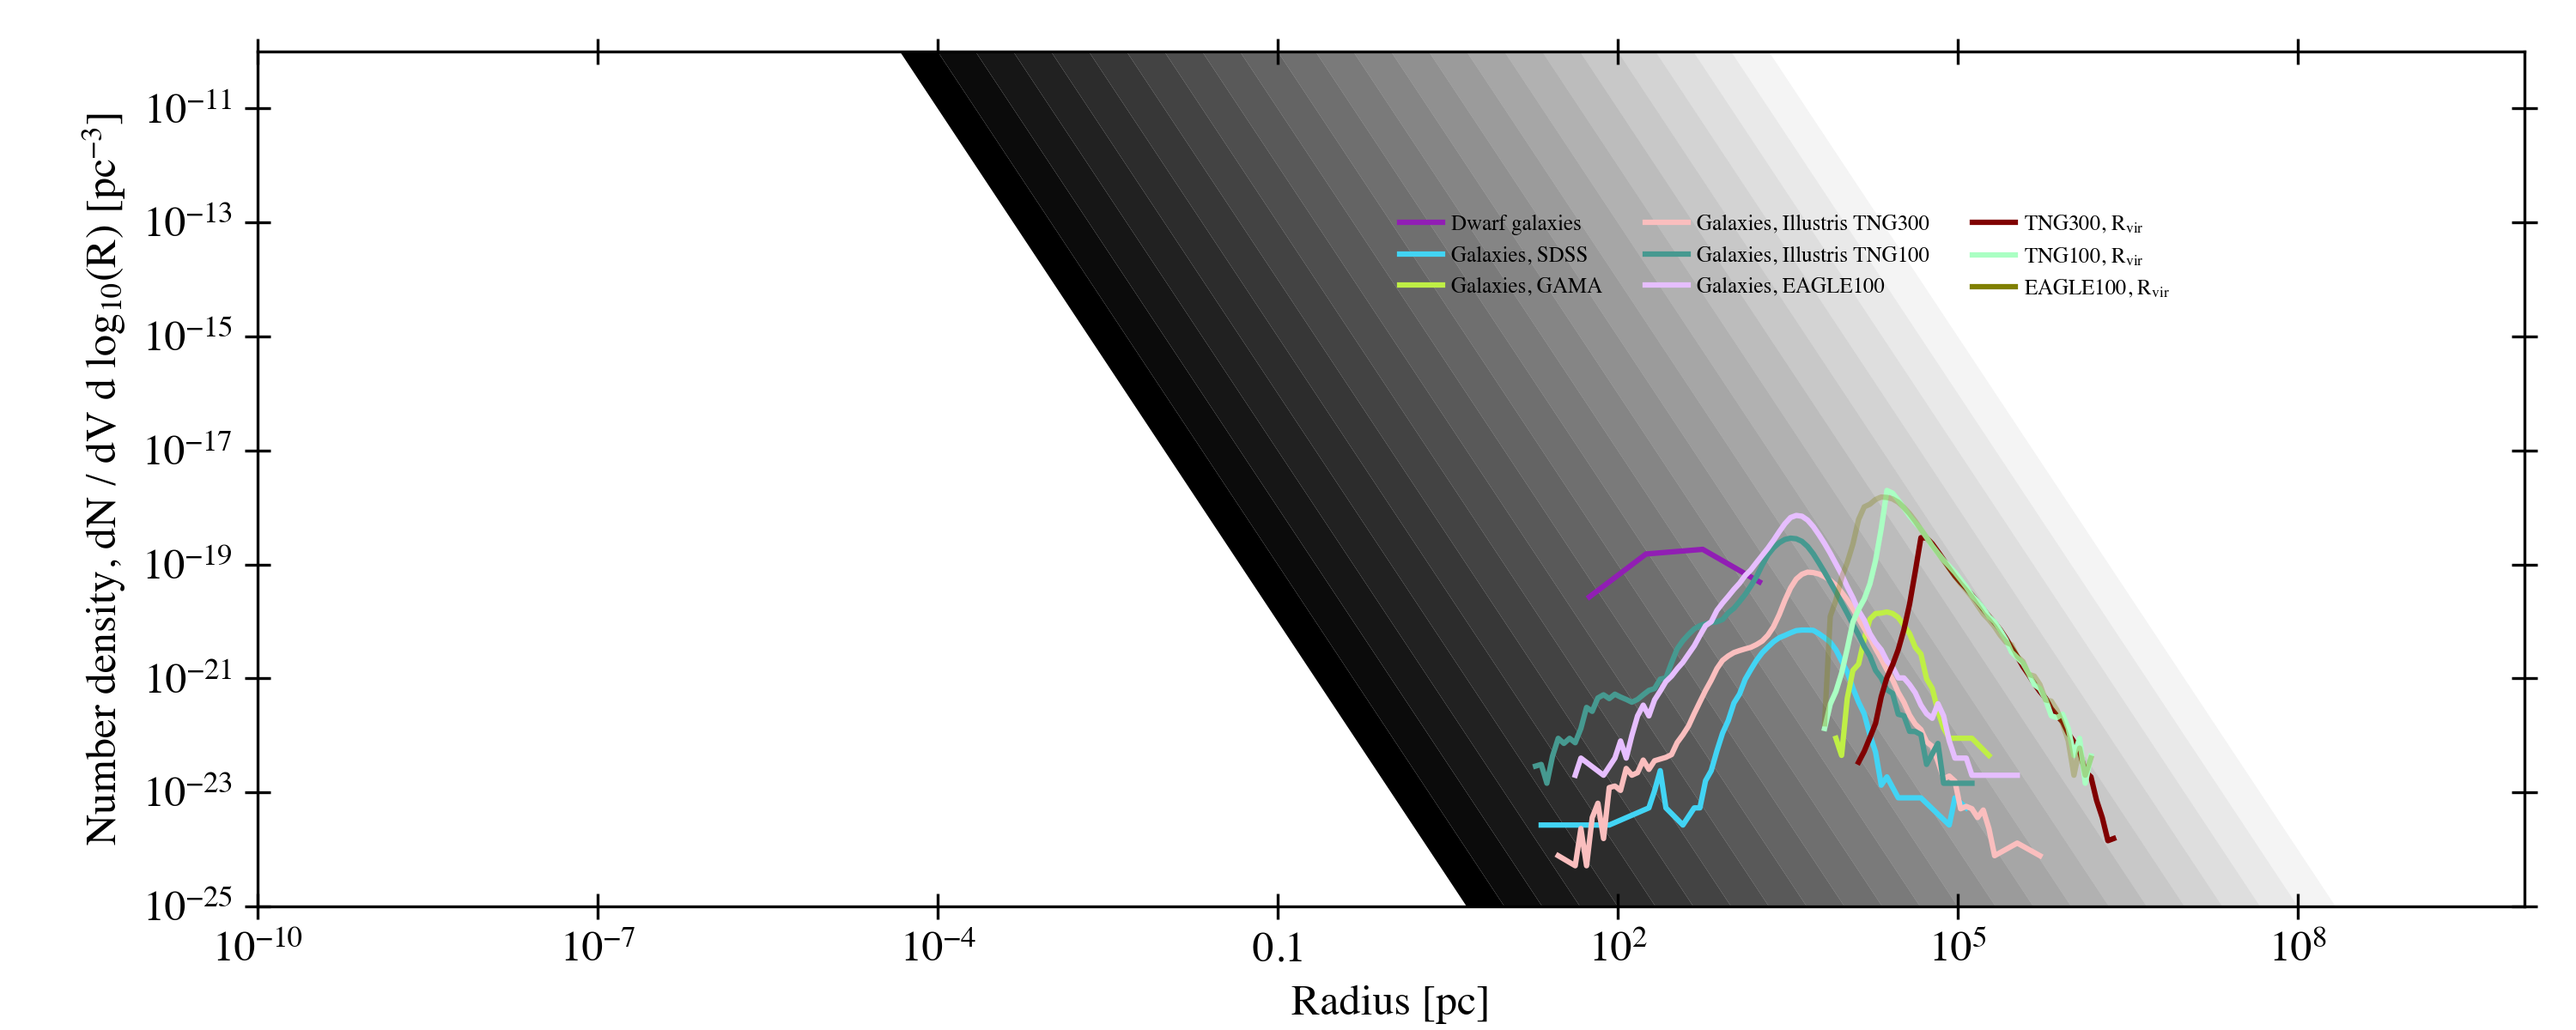
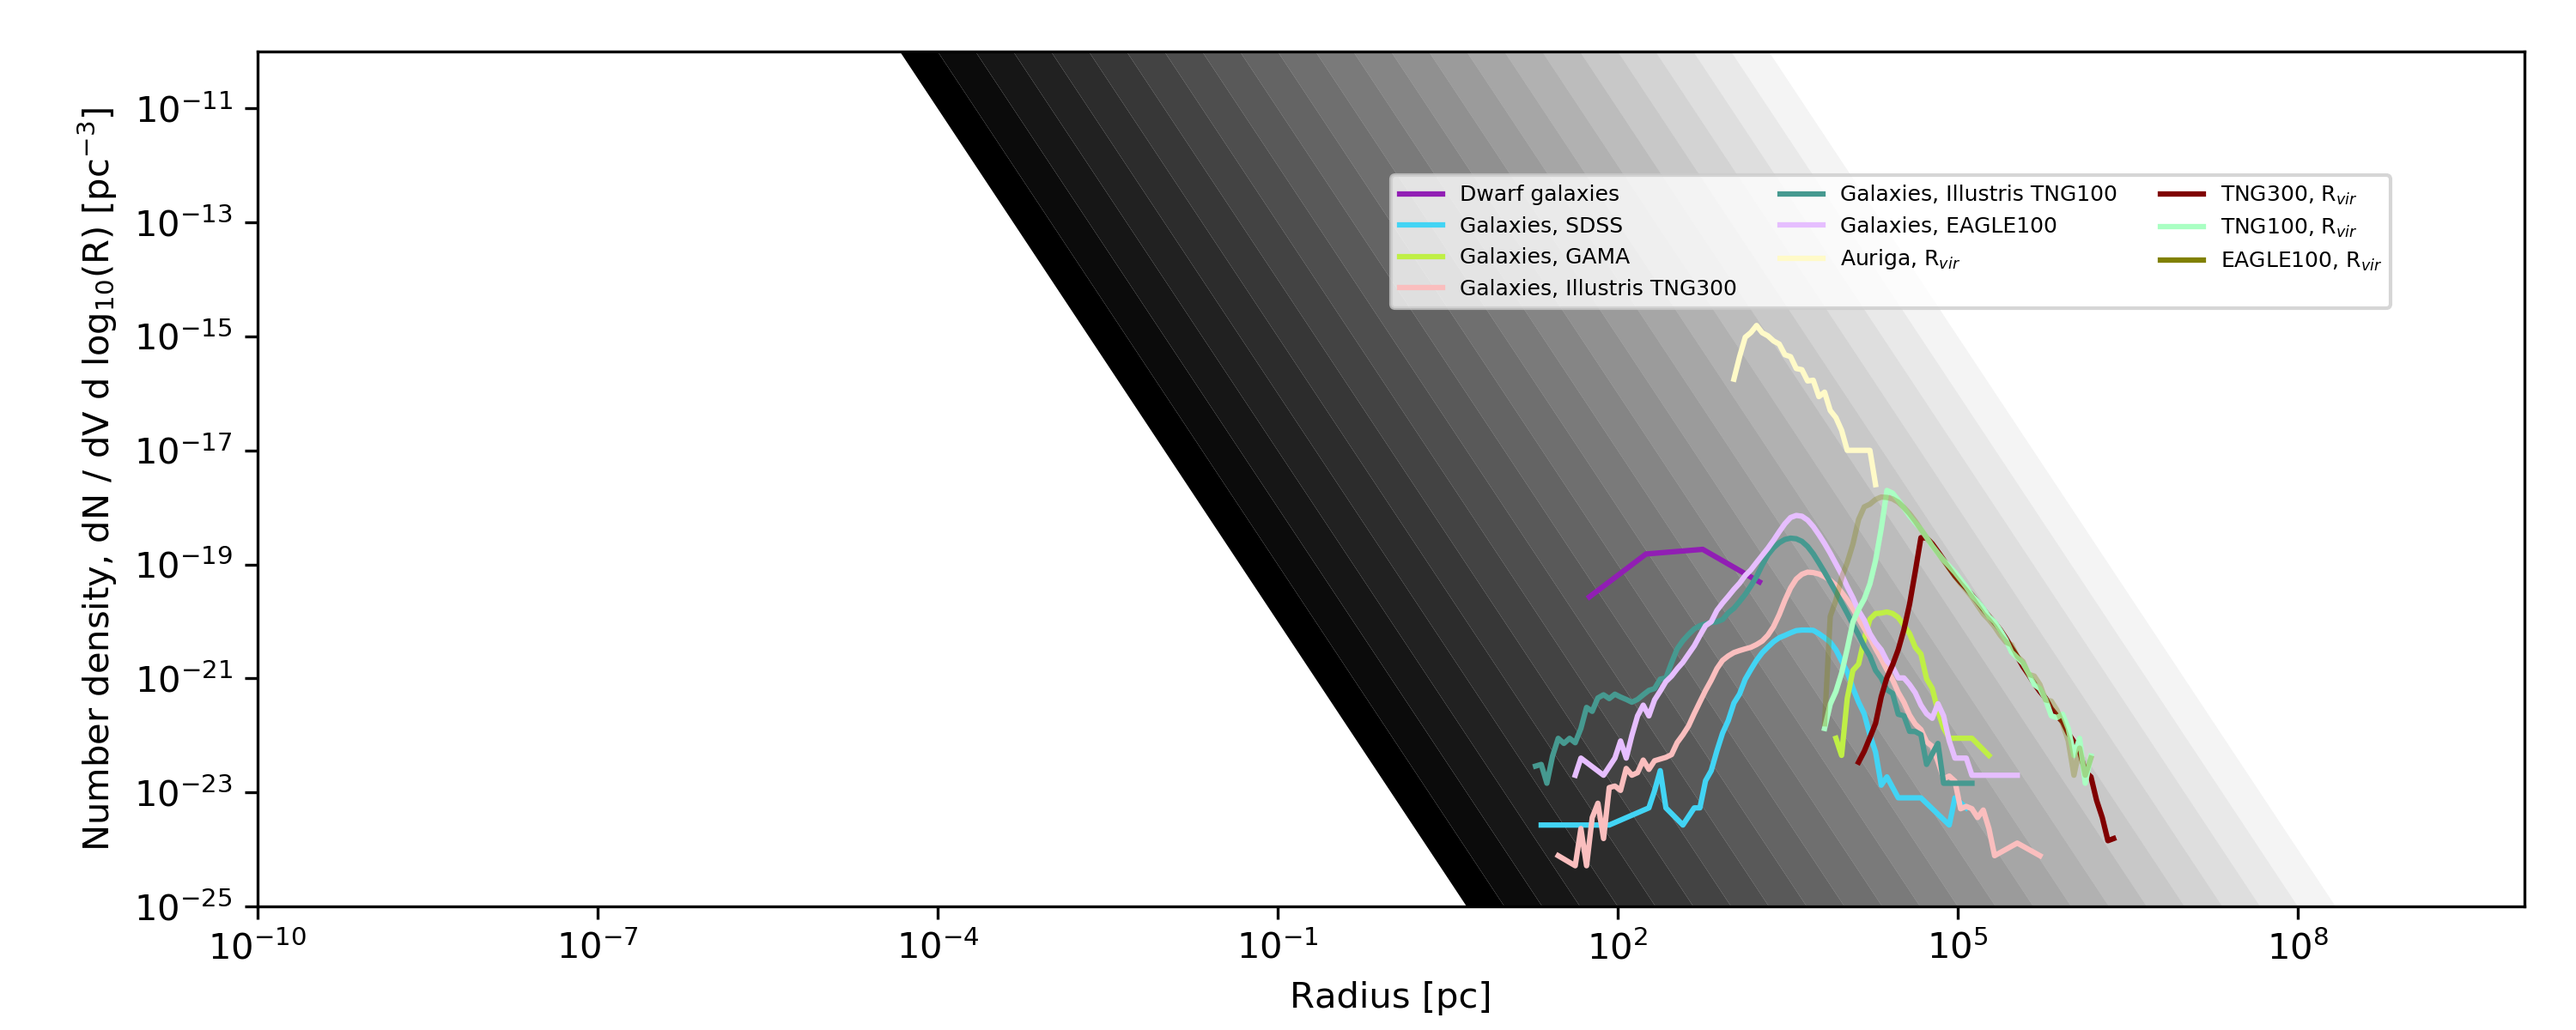
Update big plot

diff --git a/figures/histogram_plot.py b/figures/histogram_plot.py
@@ -6,8 +6,8 @@ from plot_funcs import plot_background, plot_hist
 from misc_funcs import load_data
 from datasets import data_to_plot
 
-dataset = 'dn_dv_dlogm'
-#dataset = 'dn_dv_dlogr'
+# dataset = 'dn_dv_dlogm'
+dataset = 'dn_dv_dlogr'
 
 data, fig_savename, xlab, ylab, xlo, xhi, ylo, yhi = data_to_plot(dataset)
 
